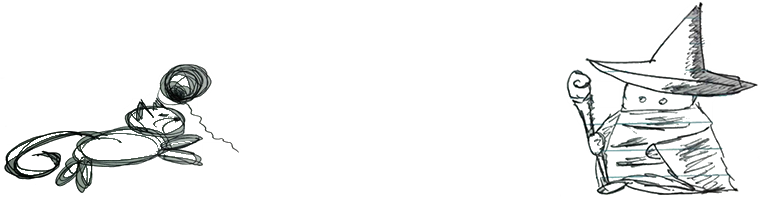
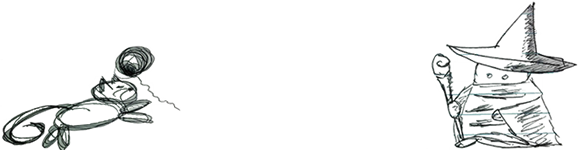
Center mage and kitty image around button

diff --git a/app/assets/index.html b/app/assets/index.html
@@ -21,6 +21,7 @@
     margin: 20px auto 20px;
     display: block;
     box-shadow: 0px 0px 10px #000;
+    vertical-align: bottom;
   }
   a:hover {
     background-color: #c94d5b;
@@ -50,7 +51,7 @@
     <h1>Wizards of the Future: Code Your Own Adventure</h1>
 
     <h2>The code beckons to you, future wizard.</h2>
-    <div style="background-image: url('images/mage.png'); background-repeat: no-repeat; background-position: center; height: 200px;"><a href="/sandbox"></a></div>
+    <div style="background-image: url('images/mage.png'); background-repeat: no-repeat; background-position: center center; height: 150px;"><a href="/sandbox"></a></div>
     <h3>Click to enter</h3>
   </div>
 </body>
